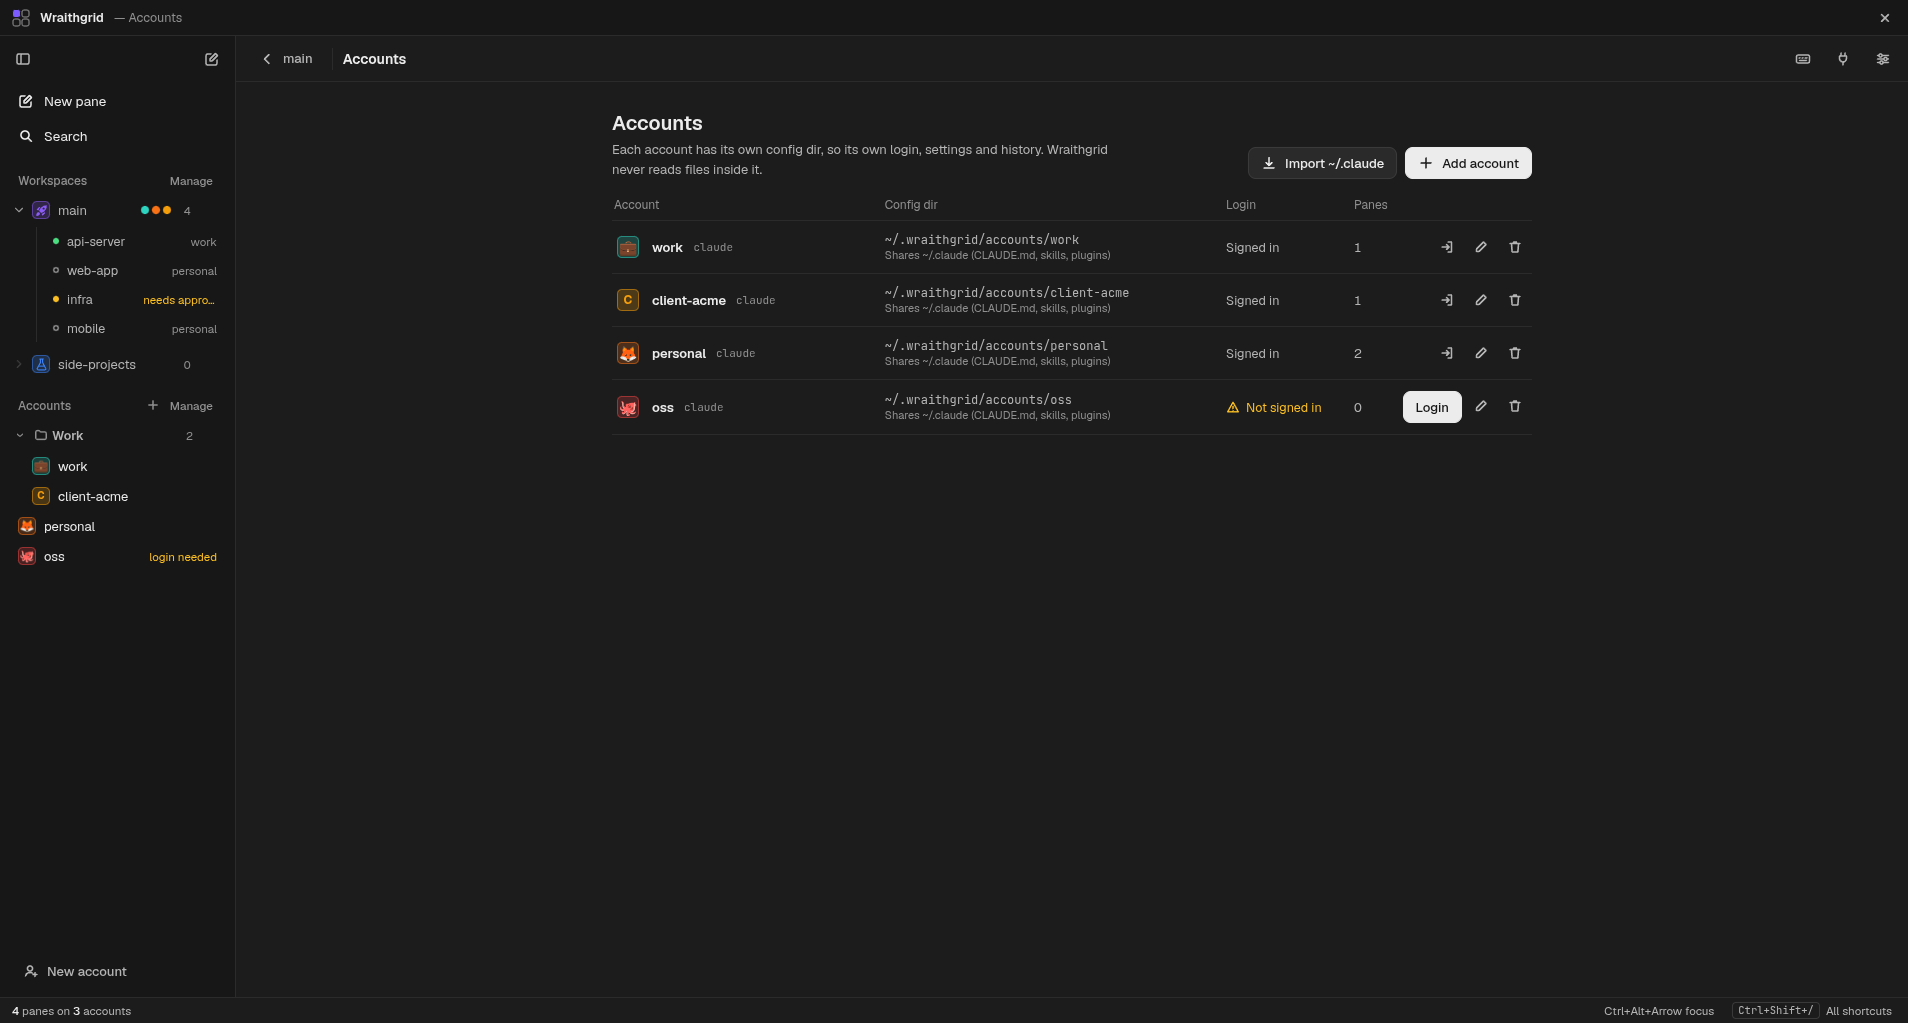
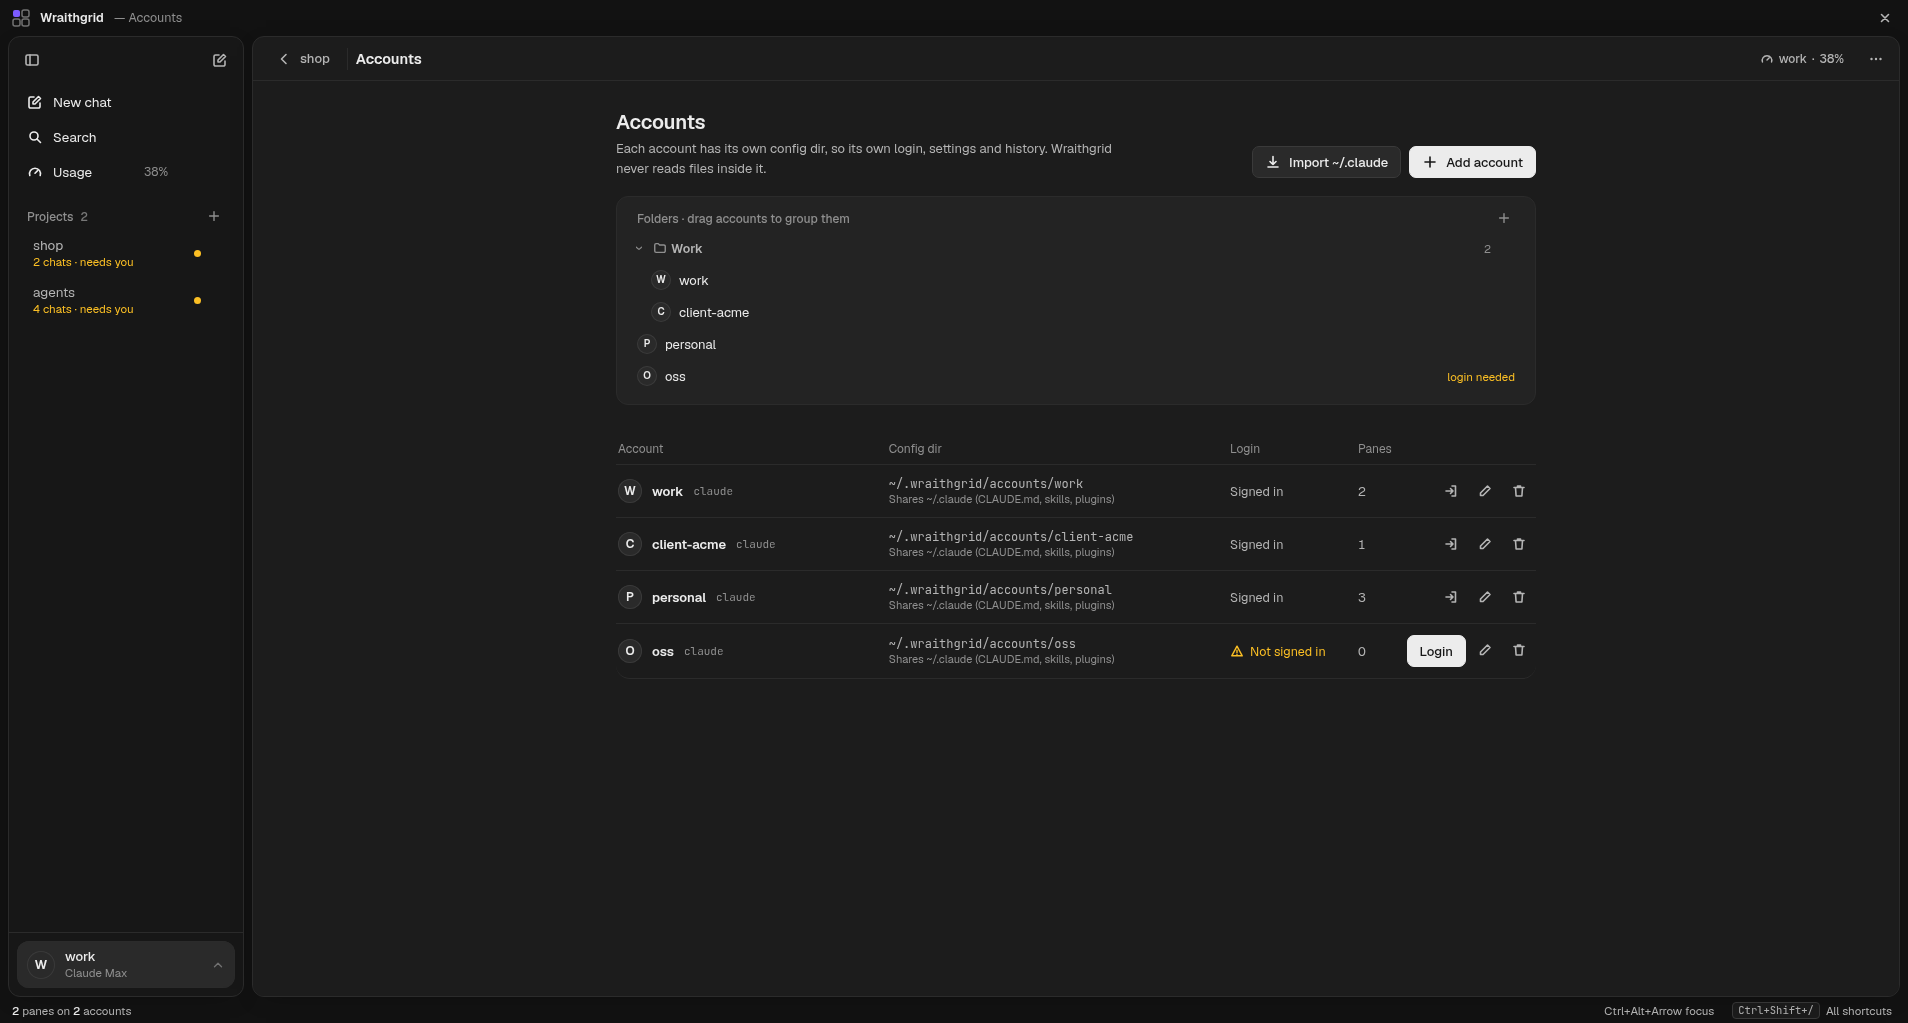
docs: retake README screenshots for the chat UI
- Hero: two chats side by side (tool cards, results table, approval), dark and light
- New shots: Project page, Usage (limits, 30-day spend); refreshed grid, New chat,
  Accounts, Settings; grid-light.png dropped
- readme-shots.spec.ts stages chats through a scripted demo-claude-chat.sh and a
  seeded usage.json; stale locators updated

diff --git a/tests/e2e/readme-shots.spec.ts b/tests/e2e/readme-shots.spec.ts
@@ -23,12 +23,15 @@ const account = (id: string, name: string, color: string, icon: string, extra = 
   folderId: null,
   ...extra
 })
-const pane = (id: string, accountId: string, folder: string) => ({
+const pane = (id: string, accountId: string, folder: string, extra = {}) => ({
   id,
   accountId,
   cwd: `~/code/${folder}`,
-  title: folder
+  title: folder,
+  ...extra
 })
+const chat = (id: string, accountId: string, folder: string, title: string) =>
+  pane(id, accountId, folder, { title, view: 'chat', hasConversation: true })
 const row = (a: string, b: string) => ({
   type: 'split',
   dir: 'row',
@@ -39,6 +42,51 @@ const row = (a: string, b: string) => ({
   ]
 })
 
+const DAY = 86_400_000
+const localDay = (t: number): string => {
+  const d = new Date(t)
+  return `${d.getFullYear()}-${String(d.getMonth() + 1).padStart(2, '0')}-${String(d.getDate()).padStart(2, '0')}`
+}
+
+/** A month of chat spend over three accounts and two projects, and each account's limits. */
+function demoUsage(now: number): unknown {
+  const chats = [
+    { accountId: 'a-work', workspaceId: 'ws-shop', paneId: 'h-auth', title: 'Rate-limit /login' },
+    { accountId: 'a-work', workspaceId: 'ws-shop', paneId: 'c-orders', title: 'Fix slow /orders' },
+    { accountId: 'a-personal', workspaceId: 'ws-shop', paneId: 'c-dark', title: 'Ship dark mode' },
+    { accountId: 'a-acme', workspaceId: 'ws-agents', paneId: 'p-infra', title: 'infra' },
+    { accountId: 'a-personal', workspaceId: 'ws-agents', paneId: 'p-mobile', title: 'mobile' }
+  ]
+  const buckets = []
+  for (let d = 29; d >= 0; d--) {
+    for (const [n, c] of chats.entries()) {
+      // An uneven month: busier midweek, some chats rest on some days.
+      const w = 0.25 + ((d * 7 + n * 5) % 11) / 12
+      if ((d + n) % 4 === 0) continue
+      const cost = Number((0.35 + w * (1.6 + n * 0.4)).toFixed(4))
+      buckets.push({
+        day: localDay(now - d * DAY),
+        ...c,
+        costUsd: cost,
+        input: Math.round(cost * 900),
+        output: Math.round(cost * 21_000),
+        cacheRead: Math.round(cost * 520_000),
+        cacheWrite: Math.round(cost * 40_000),
+        turns: Math.max(1, Math.round(w * 14))
+      })
+    }
+  }
+  const win = (u: number, h: number) => ({ utilization: u, resetsAt: now + h * 3_600_000 })
+  return {
+    buckets,
+    limits: {
+      'a-work': { fiveHour: win(0.38, 2.5), sevenDay: win(0.61, 84), at: now },
+      'a-personal': { fiveHour: win(0.86, 1.2), sevenDay: win(0.47, 60), at: now },
+      'a-acme': { fiveHour: win(0.12, 4.1), sevenDay: win(0.29, 130), at: now }
+    }
+  }
+}
+
 test('README screenshots', async () => {
   const out = path.resolve(OUT!)
   const tmp = fs.mkdtempSync(path.join(os.tmpdir(), 'wraithgrid-shots-'))
@@ -48,6 +96,7 @@ test('README screenshots', async () => {
     fs.mkdirSync(path.join(home, 'code', f), { recursive: true })
   fs.mkdirSync(userData, { recursive: true })
   fs.mkdirSync(out, { recursive: true })
+  const now = Date.now()
   fs.writeFileSync(
     path.join(userData, 'config.json'),
     JSON.stringify({
@@ -62,10 +111,41 @@ test('README screenshots', async () => {
       ],
       workspaces: [
         {
-          id: 'ws-main',
-          name: 'main',
+          id: 'ws-shop',
+          name: 'shop',
           icon: 'material:rocket-launch',
           color: '#8b5cf6',
+          folder: '~/code/api-server',
+          accountId: 'a-work',
+          panes: [
+            chat('c-orders', 'a-work', 'api-server', 'Fix slow /orders'),
+            chat('c-dark', 'a-personal', 'web-app', 'Ship dark mode')
+          ],
+          layout: row('c-orders', 'c-dark'),
+          history: [
+            {
+              pane: chat('h-auth', 'a-work', 'api-server', 'Rate-limit /login'),
+              closedAt: now - 2 * 3_600_000
+            },
+            {
+              pane: chat('h-flash', 'a-personal', 'web-app', 'Settings page flashes on load'),
+              closedAt: now - DAY
+            },
+            {
+              pane: chat('h-csv', 'a-work', 'api-server', 'Export orders as CSV'),
+              closedAt: now - 3 * DAY
+            },
+            {
+              pane: chat('h-deps', 'a-acme', 'api-server', 'Upgrade to Postgres 18'),
+              closedAt: now - 6 * DAY
+            }
+          ]
+        },
+        {
+          id: 'ws-agents',
+          name: 'agents',
+          icon: 'lucide:flask-conical',
+          color: '#3b82f6',
           panes: [
             pane('p-api', 'a-work', 'api-server'),
             pane('p-web', 'a-personal', 'web-app'),
@@ -78,21 +158,19 @@ test('README screenshots', async () => {
             sizes: [50, 50],
             children: [row('p-api', 'p-web'), row('p-infra', 'p-mobile')]
           }
-        },
-        {
-          id: 'ws-side',
-          name: 'side-projects',
-          icon: 'lucide:flask-conical',
-          color: '#3b82f6',
-          panes: [],
-          layout: null
         }
       ],
-      activeWorkspace: 'ws-main',
+      activeWorkspace: 'ws-shop',
       recentFolders: ['~/code/api-server', '~/code/web-app'],
-      settings: { sharedMode: 'overall', checkUpdatesOnLaunch: false, theme: 'dark' }
+      settings: {
+        sharedMode: 'overall',
+        checkUpdatesOnLaunch: false,
+        theme: 'dark',
+        defaultAccountId: 'a-work'
+      }
     })
   )
+  fs.writeFileSync(path.join(userData, 'usage.json'), JSON.stringify(demoUsage(now)))
   fs.mkdirSync(path.join(home, '.claude'), { recursive: true })
 
   const app = await electron.launch({
@@ -105,22 +183,60 @@ test('README screenshots', async () => {
     const shot = (name: string) => win.screenshot({ path: path.join(out, name) })
     const pane = (title: string) =>
       win.locator('section.pane', { has: win.locator('.ph-title', { hasText: title }) })
+    const side = win.getByRole('complementary', { name: 'Sidebar' })
+    const ask = async (title: string, text: string) => {
+      const box = pane(title).getByLabel('Message', { exact: true })
+      await box.click()
+      await box.fill(text)
+      await box.press('Enter')
+      await expect(box).toHaveValue('')
+    }
 
-    // Every session has drawn, one is working and one waits for approval.
+    // Two chats side by side: one finished a fix, one waits for approval to push.
+    await ask('Fix slow /orders', 'GET /orders times out with 200+ orders. Find out why and fix it')
+    await expect(pane('Fix slow /orders')).toContainText('All 12 orders tests pass', {
+      timeout: 15_000
+    })
+    await ask('Ship dark mode', 'Ship the dark mode toggle: run the tests, commit and push')
+    await expect(
+      pane('Ship dark mode').getByRole('button', { name: 'Allow', exact: true })
+    ).toBeVisible()
+    await pane('Ship dark mode').getByLabel('Message', { exact: true }).click()
+    await win.waitForTimeout(800)
+    await shot('chat-dark.png')
+
+    // The project: open chats and History.
+    await side.locator('.ws-row', { hasText: 'shop' }).click()
+    await expect(win.getByRole('region', { name: 'History' })).toBeVisible()
+    await win.waitForTimeout(300)
+    await shot('project.png')
+
+    // Usage: limits per account, spend per day, project and chat.
+    await side
+      .getByRole('button', { name: /^Usage/ })
+      .first()
+      .click()
+    await expect(
+      win.locator('.u-page').getByRole('heading', { name: 'Usage', level: 1 })
+    ).toBeVisible()
+    await win.locator('.u-page').getByText('30 days', { exact: true }).click()
+    await win.locator('#u-spend-h').evaluate((el) => el.scrollIntoView({ block: 'center' }))
+    await win.waitForTimeout(500)
+    await shot('usage.png')
+
+    // Terminal panes still work as before: four claude sessions in a 2×2 grid.
+    await win.keyboard.press('Control+Shift+2')
     await expect(pane('mobile').locator('.xterm-rows')).toContainText('11 tests')
     await expect(pane('web-app').locator('.xterm-rows')).toContainText('first paint.')
     await expect(pane('infra')).toContainText('needs approval')
     await expect(pane('api-server')).toContainText('running')
-    await expect(pane('web-app')).toContainText('idle', {
-      timeout: 15_000
-    })
-    await expect(pane('mobile')).toContainText('idle', {
-      timeout: 15_000
-    })
+    await expect(pane('web-app')).toContainText('idle', { timeout: 15_000 })
+    await expect(pane('mobile')).toContainText('idle', { timeout: 15_000 })
     await pane('api-server').locator('.xterm-screen').click()
     await win.waitForTimeout(800)
     await shot('grid-dark.png')
 
+    await win.keyboard.press('Control+Shift+1')
     await win.keyboard.press('Control+Shift+N')
     await win.getByRole('button', { name: /^Folder / }).click()
     const picker = win.getByRole('group', { name: 'Choose a folder' })
@@ -131,31 +247,31 @@ test('README screenshots', async () => {
     await shot('new-pane.png')
     await win.keyboard.press('Escape')
 
-    const side = win.getByRole('complementary', { name: 'Sidebar' })
     await side.getByRole('button', { name: /Switch account/ }).click()
     await win.getByRole('menuitem', { name: 'Manage accounts' }).click()
-    await expect(win.getByRole('button', { name: 'Change the icon of work' })).toBeVisible()
+    await expect(win.getByRole('row', { name: /^work claude/ })).toBeVisible()
     await win.waitForTimeout(300)
     await shot('accounts.png')
 
     await win.getByRole('button', { name: 'More' }).click()
-
     await win.getByRole('menuitem', { name: 'Settings' }).click()
+    await win.getByRole('tab', { name: 'Appearance' }).click()
     await win.getByRole('radio', { name: 'teal' }).click()
+    // The demo's temp config path is noise in a README.
     await win
-      .getByText('Appearance', { exact: true })
-      .evaluate((el) => el.scrollIntoView({ block: 'start' }))
+      .getByText(/^Saved to /)
+      .evaluate((el) => ((el as HTMLElement).style.visibility = 'hidden'))
     await win.waitForTimeout(300)
     await shot('settings.png')
 
-    await win.getByRole('radio', { name: 'Light', exact: true }).click()
+    await win.getByRole('radio', { name: 'Daylight', exact: true }).click()
     await expect(win.locator('html')).toHaveAttribute('data-theme', 'light')
-    await side.locator('.ws-row', { hasText: 'main' }).click()
+    await side.locator('.ws-row', { hasText: 'shop' }).click()
     await win.getByRole('button', { name: /Open chats/ }).click()
-    await expect(pane('api-server')).toBeVisible()
-    await pane('api-server').locator('.xterm-screen').click()
+    await expect(pane('Fix slow /orders')).toBeVisible()
+    await pane('Ship dark mode').getByLabel('Message', { exact: true }).click()
     await win.waitForTimeout(800)
-    await shot('grid-light.png')
+    await shot('chat-light.png')
   } finally {
     await app.close()
     fs.rmSync(tmp, { recursive: true, force: true })

diff --git a/README.md b/README.md
@@ -18,8 +18,8 @@
 <br />
 
 <picture>
-  <source media="(prefers-color-scheme: light)" srcset="docs/screenshots/grid-light.png" />
-  <img src="docs/screenshots/grid-dark.png" alt="Wraithgrid showing four claude sessions in a 2×2 grid, each under a different account and project folder, with accounts grouped in a sidebar folder" />
+  <source media="(prefers-color-scheme: light)" srcset="docs/screenshots/chat-light.png" />
+  <img src="docs/screenshots/chat-dark.png" alt="Wraithgrid with two claude chats side by side under different accounts: one fixed a slow endpoint with tool cards and a results table, the other waits for approval to push a branch" />
 </picture>
 
 ## Why Wraithgrid
@@ -75,22 +75,32 @@ the official CLI does the work, with the same account, folder, CLAUDE.md, skills
 <table>
   <tr>
     <td width="50%">
-      <img src="docs/screenshots/new-pane.png" alt="New pane dialog with account picker, working directory and launch args" />
-      <p align="center"><b>New pane</b>: pick an account, a folder and launch args</p>
+      <img src="docs/screenshots/project.png" alt="A project page: its open chats with their account and state, and History with search and delete" />
+      <p align="center"><b>Project</b>: open chats and History</p>
     </td>
     <td width="50%">
-      <img src="docs/screenshots/accounts.png" alt="Accounts view listing four accounts with icons, their config dirs, shared ~/.claude and login state" />
-      <p align="center"><b>Accounts</b>: one <code>CLAUDE_CONFIG_DIR</code> per account, each with its own icon</p>
+      <img src="docs/screenshots/usage.png" alt="Usage: session and weekly limits per account with reset times, cost per day for 30 days, spend per project and chat" />
+      <p align="center"><b>Usage</b>: limits per account, spend per day, project and chat</p>
     </td>
   </tr>
   <tr>
     <td width="50%">
-      <img src="docs/screenshots/settings.png" alt="Settings: theme, accent color, terminal colors and font" />
-      <p align="center"><b>Settings</b>: shared <code>~/.claude</code>, theme, accent, terminal colors and font</p>
+      <img src="docs/screenshots/grid-dark.png" alt="Four claude sessions as terminals in a 2×2 grid, each under a different account and folder: one running, one waiting for approval" />
+      <p align="center"><b>Terminal panes</b>: the full CLI, side by side</p>
     </td>
     <td width="50%">
-      <img src="docs/screenshots/grid-light.png" alt="The pane grid in the light theme with a teal accent" />
-      <p align="center"><b>Light theme</b>, teal accent</p>
+      <img src="docs/screenshots/new-pane.png" alt="New chat dialog: account list with plan and sign-in state, folder, recent folders, More options" />
+      <p align="center"><b>New chat</b>: account, folder, Start</p>
+    </td>
+  </tr>
+  <tr>
+    <td width="50%">
+      <img src="docs/screenshots/accounts.png" alt="Accounts page: accounts grouped in folders, config dirs, shared ~/.claude and sign-in state" />
+      <p align="center"><b>Accounts</b>: one config dir per account, grouped in folders</p>
+    </td>
+    <td width="50%">
+      <img src="docs/screenshots/settings.png" alt="Settings, Appearance tab: theme cards, interface size, accent color and terminal colors" />
+      <p align="center"><b>Settings</b>: themes, interface size, accent, terminal colors</p>
     </td>
   </tr>
 </table>

diff --git a/docs/CONTEXT.md b/docs/CONTEXT.md
@@ -130,7 +130,7 @@ react-resizable-panels, @dnd-kit. Tests: Vitest (unit), Playwright (Electron e2e
 - No icons or emoji for accounts/projects/folders (removed 2026-10-21): `icon`/`color` fields stay in the schema so old configs load, and are ignored; accounts show `<Initial>`.
 - Tests: never pass `os.devNull` to git (Windows `\\.\nul` is refused); use a temp file.
 - Tests under the node tsconfig can't import `.tsx`: keep testable logic in `src/renderer/lib/`.
-- Env `WRAITHGRID_E2E_SHOTS=<dir>` makes `git-palette.spec.ts` and `mods.spec.ts` save screenshots. README images: `bun run build`, then `WRAITHGRID_README_SHOTS=docs/screenshots ./node_modules/.bin/playwright test readme-shots` (skipped without the env).
+- Env `WRAITHGRID_E2E_SHOTS=<dir>` makes `git-palette.spec.ts` and `mods.spec.ts` save screenshots. README images: `bun run build`, then `WRAITHGRID_README_SHOTS=docs/screenshots ./node_modules/.bin/playwright test readme-shots` (skipped without the env); chat shots come from `tests/fixtures/demo-claude-chat.sh` (prompts with "orders"/"ship"), Usage from a seeded `usage.json`.
 - Electron 44's main `clipboard` is the async web-style API (no `readImage`). Image paste in agent panes: Wraithgrid intercepts Ctrl+V (not macOS) and pastes a saved file path (claude's own read misses some screenshots).
 - `agy` and opencode have no per-account dir (shared sign-in); codex/cursor/copilot may keep the sign-in in the keyring (`dir-unchecked`). Non-claude binaries: `settings.cliPaths`, else PATH.
 - Resume: only a pane's first start after launch, only with `hasConversation` (set on the first Enter); "continue latest" args pick the folder's newest conversation, so two panes on one folder + account resume the same one.

diff --git a/CHANGELOG.md b/CHANGELOG.md
@@ -2,6 +2,7 @@
 
 ## 2026-10-22
 
+- [docs] README screenshots retaken for the chat UI: hero is two chats (tool cards, table, approval) in dark/light, plus Project, Usage (30 days seeded), terminal grid, New chat, Accounts, Settings; `grid-light.png` dropped. The spec stages chats via a new scripted `demo-claude-chat.sh` and a seeded usage.json; stale locators fixed (files: docs/screenshots/*.png, README.md, tests/e2e/readme-shots.spec.ts, tests/fixtures/{demo-claude,demo-claude-chat}.sh)
 - [docs] README caught up with v1.11–v1.14: chat panes (new Chat section), projects (New project, History), Usage, sign-in dialog, Continue as another account, Pull + History, in-app updates, Settings tabs; "workspace" → "project" (files: README.md)
 - [docs] Filed issue #41: chat UI for Antigravity CLI (agy) (files: docs/TODO.md)
 - [docs] Filed issue #40: chat UI and sign-in dialog for Codex CLI (claude only today) (files: docs/TODO.md)
